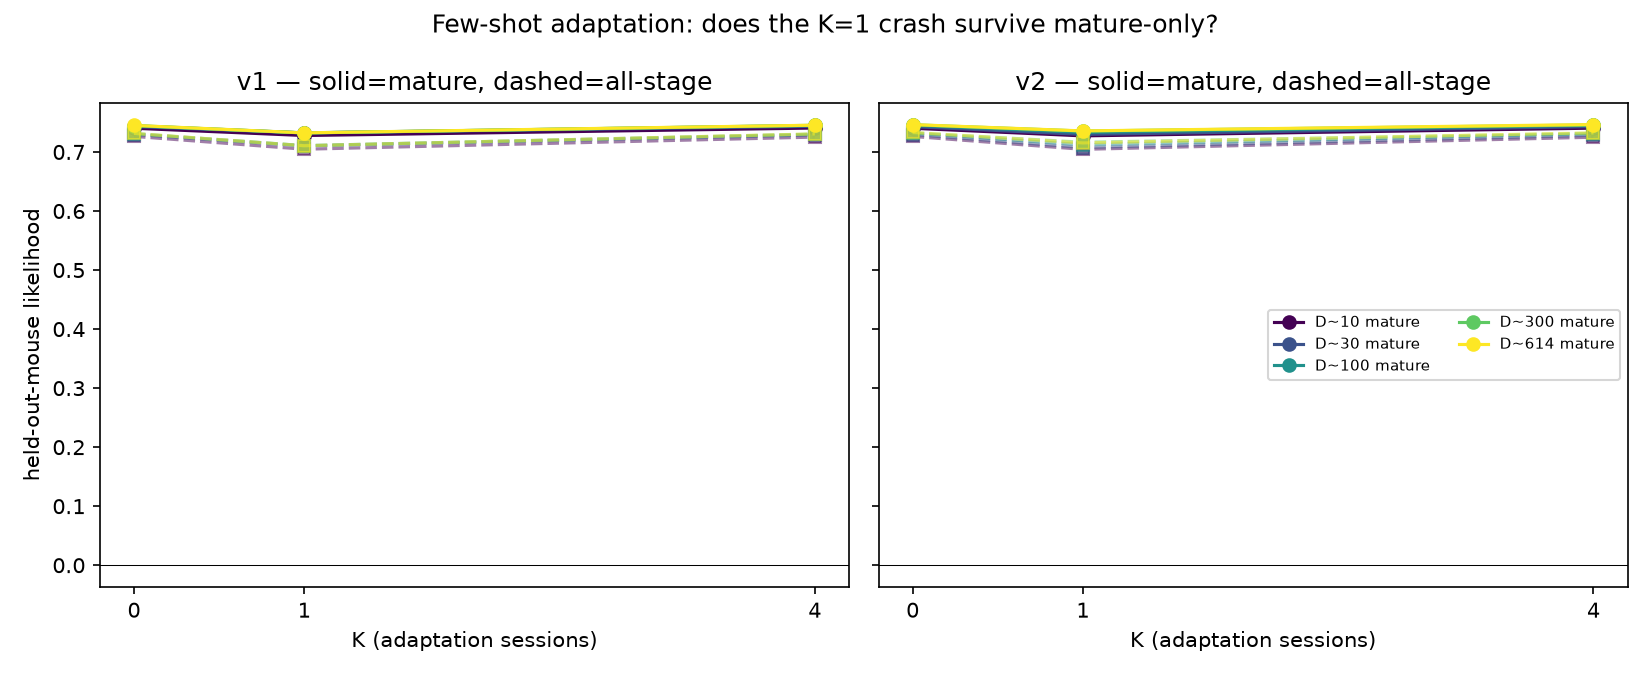
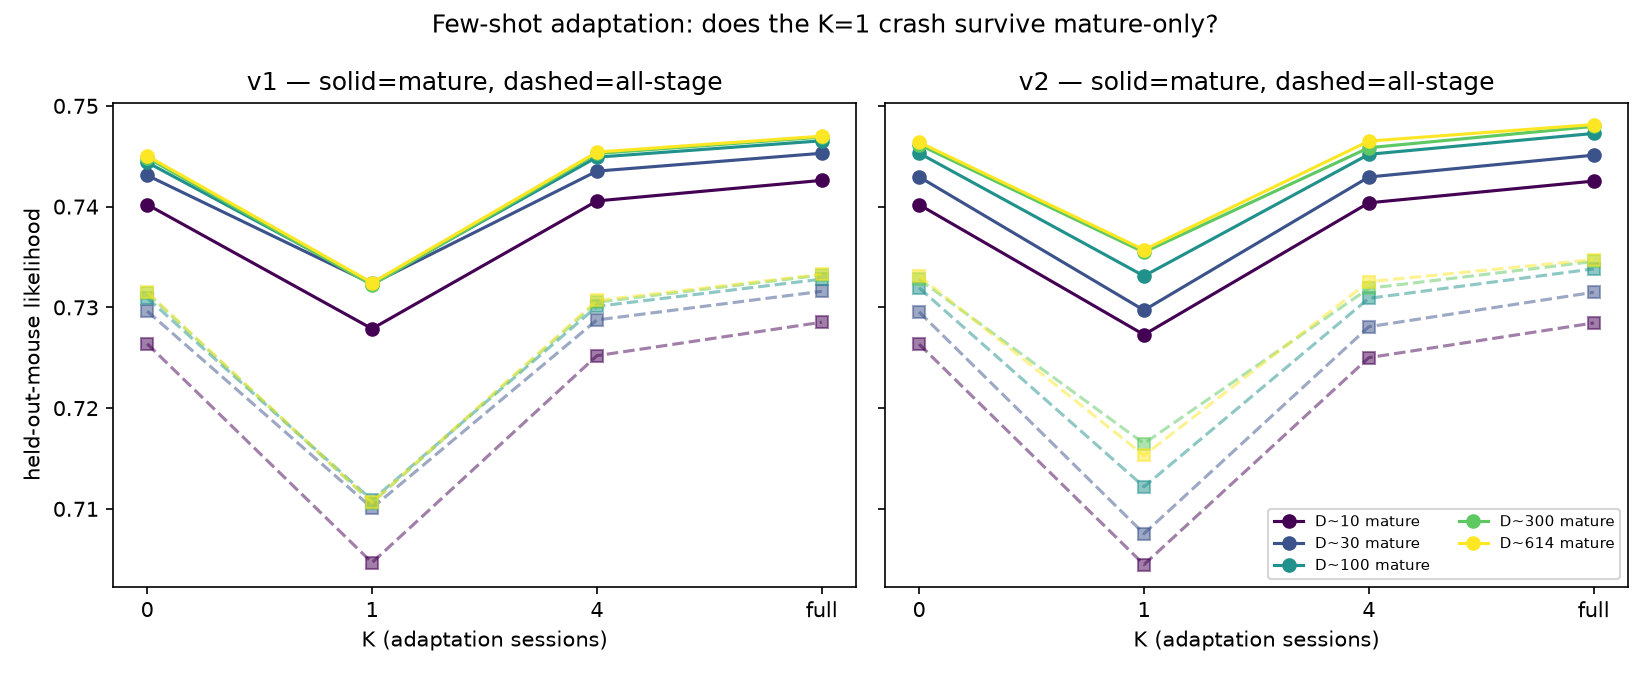
analysis(study): graft K=full asymptote onto mature few-shot curve
Mature curve now matches the all-stage {K0,K1,K4,Kfull} structure. Kfull
pulled from the fully-adapted mature runs (mature_sc_verdict.json): only
~+0.002 above zero-shot, so post-crash adaptation buys little on mature
sessions. No K=2/K=8 added (neither is an all-stage curve point either).

diff --git a/studies/data-scaling-law/analysis/mature_fewshot_curve.py b/studies/data-scaling-law/analysis/mature_fewshot_curve.py
@@ -110,9 +110,17 @@ def main():
     variants = ["v1", "v2"]
     Ks = [0, 1, 4]
 
-    # all-stage reference (K0,K1,K4 are indices 0,1,2 in fewshot_curve.json arrays)
+    # all-stage reference: fewshot_curve.json arrays are [K0, K1, K4, Kfull]
     allstage = json.load(open(HERE / "fewshot_curve.json"))
-    idx = {0: 0, 1: 1, 4: 2}
+    idx = {0: 0, 1: 1, 4: 2, "full": 3}
+
+    # graft the fully-adapted (K=full) MATURE point from mature_sc_verdict.json
+    # (heldout-rerun-*-mature groups): v1_mat given directly, v2_mat = v1_mat + Δ(v2-v1).
+    verdict = json.load(open(HERE / "mature_sc_verdict.json"))
+    full_mat = {}  # (variant, D) -> ll
+    for Dk, v in verdict.items():
+        full_mat[("v1", int(Dk))] = v["v1_mat"]
+        full_mat[("v2", int(Dk))] = v["v1_mat"] + v["mature_delta"]
 
     result = {"mature": {}, "k1_dip_vs_k0": {}}
     for var in variants:
@@ -122,6 +130,8 @@ def main():
                 c = cohort.get((var, D, K))
                 if c:
                     cell[str(K)] = c
+            if (var, D) in full_mat:
+                cell["full"] = {"ll": full_mat[(var, D)], "n": 117}
             result["mature"][f"{var}_D{D}"] = cell
             # K=1 dip relative to K=0, mature vs all-stage
             mk0 = cohort.get((var, D, 0)); mk1 = cohort.get((var, D, 1))
@@ -135,19 +145,23 @@ def main():
 
     json.dump(result, open(HERE / "mature_fewshot_curve.json", "w"), indent=2)
 
-    # figure: K-curve per D, mature (solid) vs all-stage (dashed), v1 & v2 panels
+    # figure: K-curve per D, mature (solid) vs all-stage (dashed), v1 & v2 panels.
+    # x positions: K0,K1,K4 evenly, then Kfull at the right end (categorical).
+    Kpts = [0, 1, 4, "full"]
+    xpos = [0, 1, 2, 3]
     fig, axes = plt.subplots(1, 2, figsize=(11, 4.5), sharey=True)
     cmap = plt.get_cmap("viridis")
     for ax, var in zip(axes, variants):
         for i, D in enumerate(Ds):
             color = cmap(i / max(1, len(Ds) - 1))
-            mat = [cohort.get((var, D, K), {}).get("ll") for K in Ks]
-            ax.plot(Ks, mat, "o-", color=color, label=f"D~{D} mature")
+            mat = [(cohort.get((var, D, K), {}).get("ll") if K != "full"
+                    else full_mat.get((var, D))) for K in Kpts]
+            ax.plot(xpos, mat, "o-", color=color, label=f"D~{D} mature")
             ak = allstage.get(f"{var}_D{D}")
             if ak:
-                ax.plot(Ks, [ak[idx[K]] for K in Ks], "s--", color=color, alpha=0.5)
-        ax.axhline(0, color="k", lw=0.5)
-        ax.set_xticks(Ks); ax.set_xlabel("K (adaptation sessions)")
+                ax.plot(xpos, [ak[idx[K]] for K in Kpts], "s--", color=color, alpha=0.5)
+        ax.set_xticks(xpos); ax.set_xticklabels(["0", "1", "4", "full"])
+        ax.set_xlabel("K (adaptation sessions)")
         ax.set_title(f"{var} — solid=mature, dashed=all-stage")
     axes[0].set_ylabel("held-out-mouse likelihood")
     axes[1].legend(fontsize=7, ncol=2)

diff --git a/studies/data-scaling-law/analysis/mature_fewshot_verdict.md b/studies/data-scaling-law/analysis/mature_fewshot_verdict.md
@@ -38,6 +38,11 @@ Supporting features (unchanged from all-stage):
 - **v1 ≈ v2**: session conditioning doesn't rescue it → not SC-related.
 - **Full recovery by K=4** (K4 ≈ K0 in every cell, mature and all-stage): ≥4 sessions give
   the embedding enough signal to stop overfitting.
+- **K=full asymptote** (grafted from the fully-adapted mature runs, `mature_sc_verdict.json`):
+  ~0.7426→0.7482, i.e. only ~+0.002 above zero-shot — adaptation beyond the K=1 crash buys
+  very little on mature sessions. The mature curve now has the same {K0, K1, K4, Kfull}
+  points as the all-stage curve (no K=2/K=8 in either — K=2 was only an all-stage overfit
+  probe, K=8 was never run).
 
 **Practical takeaway:** report zero-shot (K0) and K≥4, and treat K=1 adapted as an unreliable
 operating point. Mature-only filtering improves but does not fix it — the fix is more
